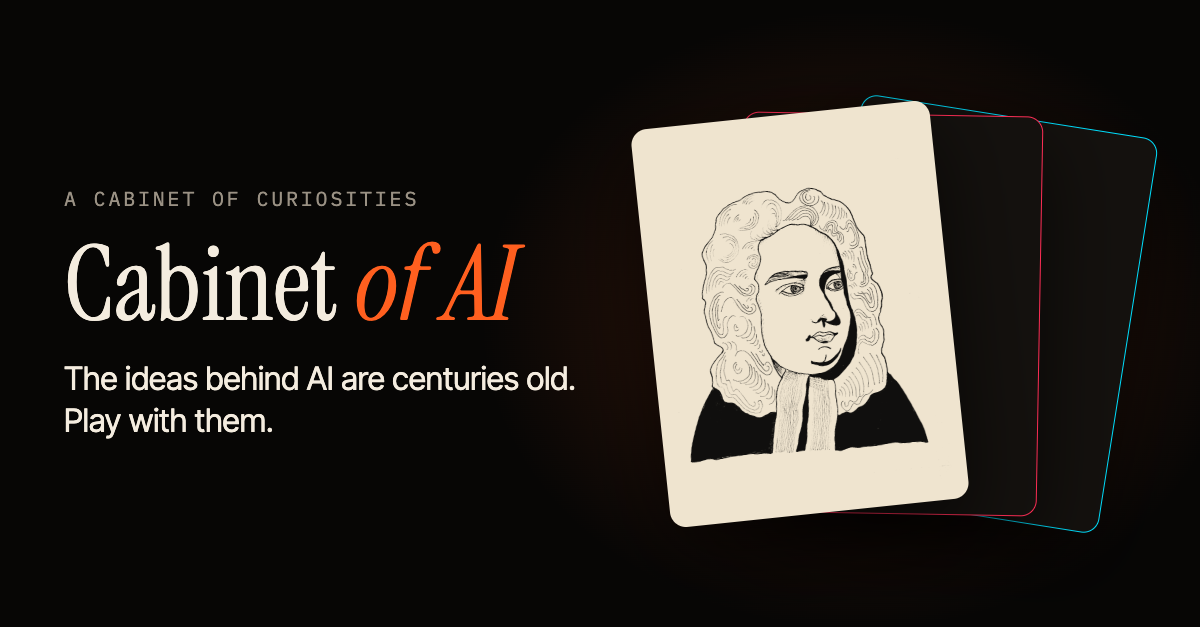
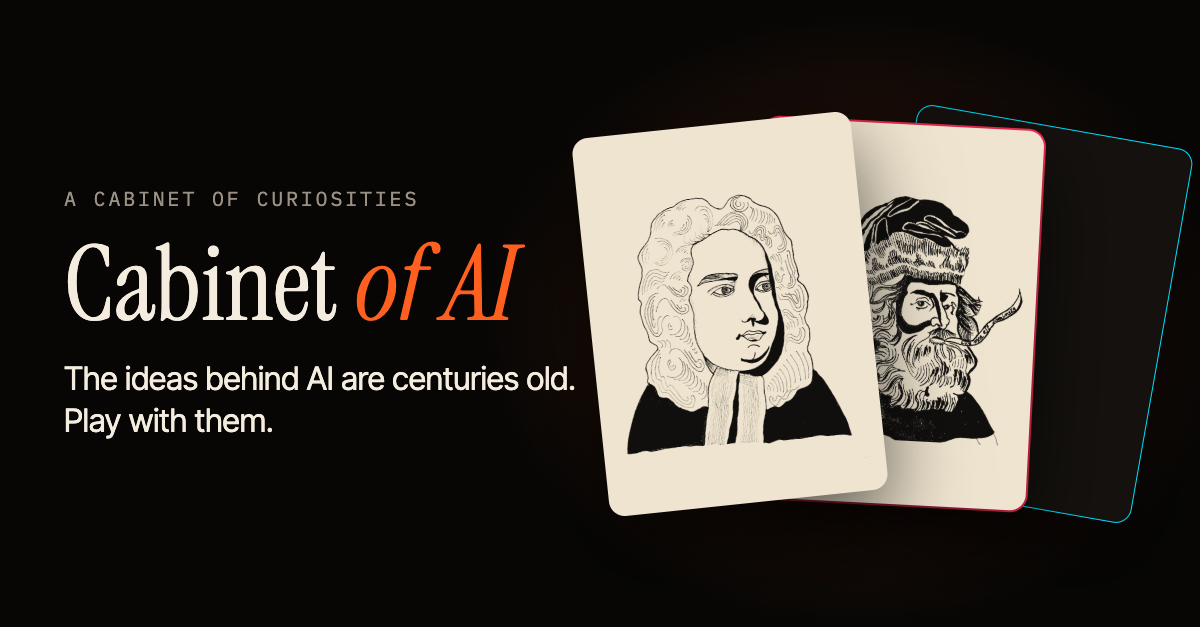
feat(site): share image shows Llull open beside Lagado

Changed region(s): [[0.4625, 0.1515, 0.925, 0.8485], [0.9867, 0.2424, 1.0, 0.3333], [0.925, 0.2121, 0.9867, 0.2424]]

diff --git a/design/previews/previews.html b/design/previews/previews.html
@@ -1,6 +1,6 @@
 <!doctype html>
 <!--
-  The final link-preview images (Phase 1.2 part 3). Lagado: direction C, chosen by the author on 2026-11-13. Llull: the same layout (2026-11-13).
+  The final link-preview images (Phase 1.2 part 3). Lagado: direction C, chosen by the author on 2026-11-13. Llull: the same layout (2026-11-13). Site: Llull shown open once it opened (2026-11-13).
   Each .card is exactly 1200 × 627 and is captured on its own with playwright-cli.
   Fonts come from Astro's font cache: run `npm run dev` or `npm run build` once first.
 -->
@@ -50,18 +50,19 @@
   #llull .line { font-family: var(--sans); font-size: 32px; line-height: 1.3; }
   #llull .label b { color: var(--accent); }
 
-  /* Site: the cabinet's plates, Lagado open, the next two sealed */
+  /* Site: the cabinet's plates: Lagado open in front, Llull open behind it, Hesse sealed */
   #site .glow { position: absolute; right: -40px; top: 10px; width: 760px; height: 620px; background: radial-gradient(closest-side, rgb(255 95 31 / 0.22), transparent); }
   #site .text { position: absolute; left: 64px; width: 600px; top: 0; bottom: 0; display: flex; flex-direction: column; justify-content: center; gap: 26px; }
   #site .title { font-family: var(--serif); font-size: 104px; line-height: 0.92; }
   #site .title i { color: var(--accent); }
   #site .line { font-family: var(--sans); font-size: 32px; line-height: 1.3; }
-  #site .p { position: absolute; top: 50%; width: 300px; height: 400px; translate: 0 -50%; border-radius: 16px; overflow: hidden; box-shadow: 0 30px 80px rgb(0 0 0 / 0.65); }
+  #site .p { position: absolute; top: 50%; width: 280px; height: 380px; translate: 0 -50%; border-radius: 16px; overflow: hidden; box-shadow: 0 30px 80px rgb(0 0 0 / 0.65); }
   #site .sealed { background: #14110e; border: 1px solid var(--c); display: grid; place-items: center; }
-  #site .s1 { right: 70px; rotate: 9deg; --c: #00e0ff; }
-  #site .s2 { right: 160px; rotate: 1deg; --c: #ff2d55; }
-  #site .open { right: 250px; rotate: -6deg; background: var(--plate); display: grid; place-items: center; }
-  #site .open img { height: 360px; mix-blend-mode: multiply; }
+  #site .s1 { right: 36px; rotate: 10deg; --c: #00e0ff; }
+  #site .s2 { right: 165px; rotate: 3deg; background: var(--plate); display: grid; place-items: center; box-shadow: 0 30px 80px rgb(0 0 0 / 0.65), 0 0 0 2px #ff2d55; }
+  #site .s2 img { width: 240px; margin-left: 30px; mix-blend-mode: multiply; }
+  #site .open { right: 330px; rotate: -6deg; background: var(--plate); display: grid; place-items: center; }
+  #site .open img { height: 340px; mix-blend-mode: multiply; }
 </style>
 </head>
 <body>
@@ -89,7 +90,7 @@
 <section class="card" id="site">
   <div class="glow"></div>
   <div class="p sealed s1"></div>
-  <div class="p sealed s2"></div>
+  <div class="p s2"><img src="../../src/content/exhibits/llull/images/llull-portrait-ink.png" alt="" /></div>
   <div class="p open"><img src="../../src/demos/lagado/plates/swift-ink.png" alt="" /></div>
   <div class="text">
     <p class="label">A cabinet of curiosities</p>

diff --git a/src/lib/site.ts b/src/lib/site.ts
@@ -6,7 +6,7 @@ export const LINKEDIN_URL = "https://www.linkedin.com/in/ameliederome/";
 
 /** Alt text of the site's link-preview image (src/assets/site-preview.png, ADR 007). */
 export const SITE_PREVIEW_ALT =
-  "Cabinet of AI. The ideas behind AI are centuries old. Play with them. Beside it, three plates: an ink drawing of Jonathan Swift in front of two sealed ones.";
+  "Cabinet of AI. The ideas behind AI are centuries old. Play with them. Beside it, three plates: ink drawings of Jonathan Swift and Ramon Llull, in front of a sealed one.";
 
 /** Byline on essays. */
 export const AUTHOR_NAME = "Amélie Derome";

diff --git a/docs/features/cabinet/journal.md b/docs/features/cabinet/journal.md
@@ -140,3 +140,7 @@ The operator: "Perf, delete the keeper tag but then do everything else, don't wa
 ## 2026-11-13 — Credits per page (ADR 009)
 
 At the operator's request during the Llull essay review: each exhibit page now credits only what it shows (`on:` tag on every credit, required), and an essay's references live in the credits under "Sources" (`cited: true`), not in the essay. Shipped on its own branch so Lagado gets it before Llull opens: Lagado's demo now lists 7 credits, essay 4, original 4, making-of 2 (the Engine texture and the link-preview image on every page). Rule added to AGENTS.md for every future exhibit.
+
+## 2026-11-13 — Site share image with Llull open
+
+Llull opened, so the site's link-preview image (ADR 007) now shows Swift and Llull open, Hesse's plate still sealed (the author's yes). Same section in `design/previews/previews.html`, fan spread so both drawings show; captured at 1200 × 627; alt text and the home page's credit line now name both drawings. 1200 × 627 check passed at build.
